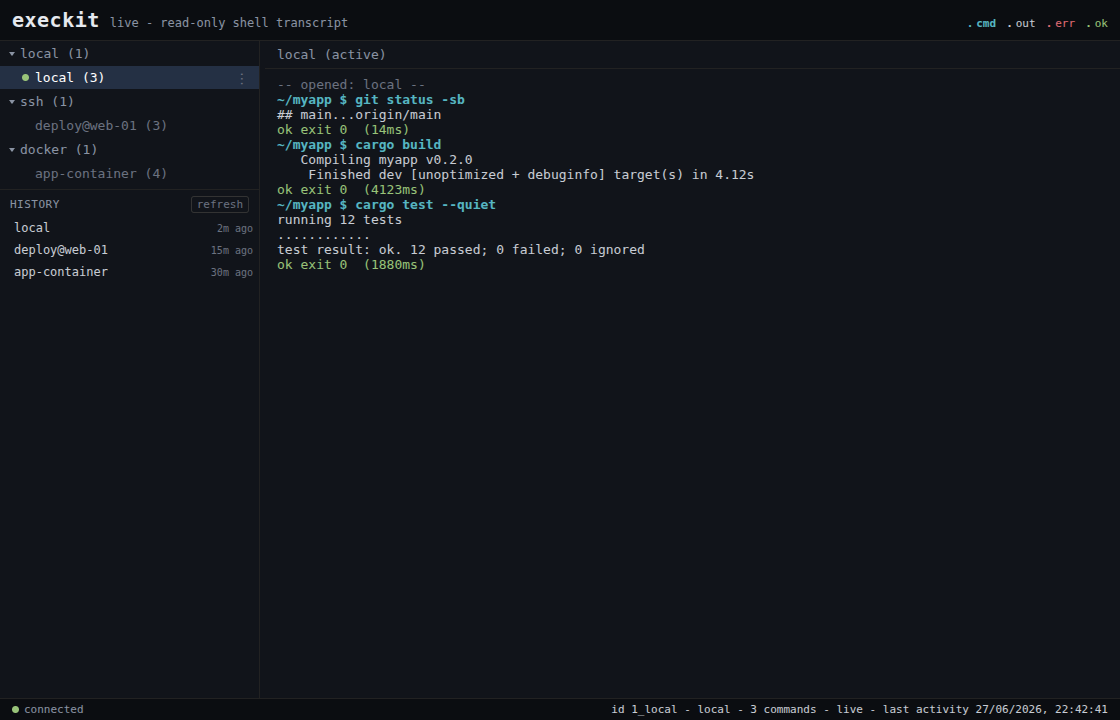
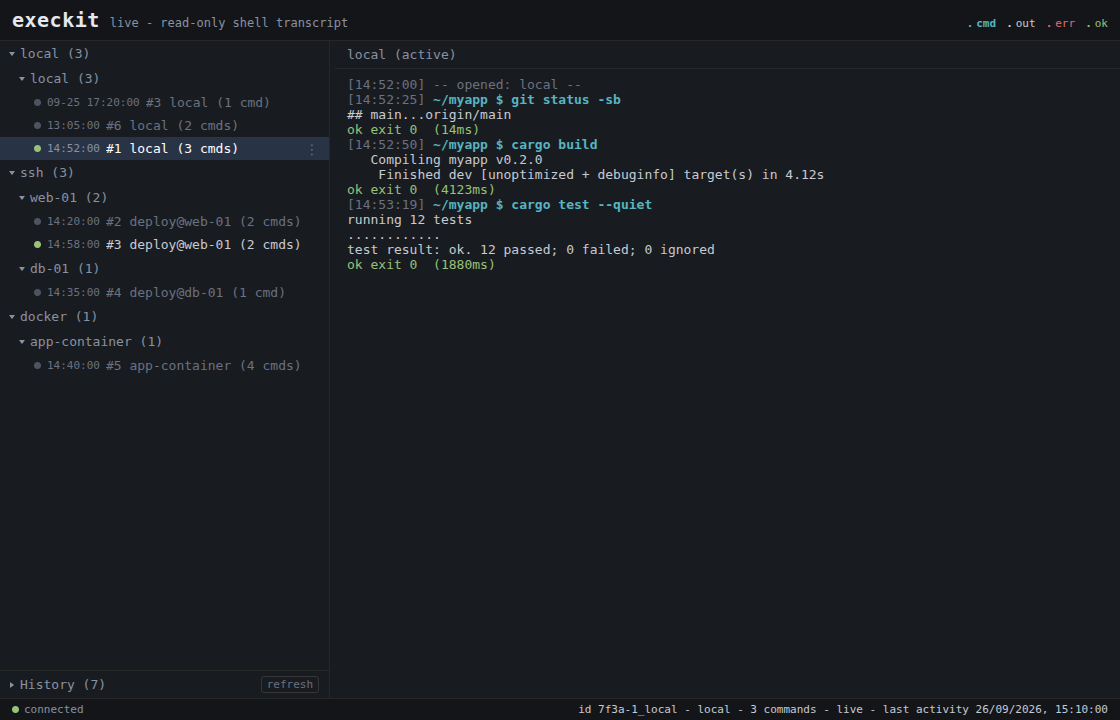
docs: refresh viewer screenshots for host groups, timestamps and collapsed History

diff --git a/README.md b/README.md
@@ -10,7 +10,7 @@
 [![guide](https://img.shields.io/badge/guide-online-blue.svg)](https://blinkingbit-oss.github.io/execkit/)
 [![license](https://img.shields.io/badge/license-Apache--2.0-blue.svg)](LICENSE)
 
-![The execkit live viewer: sessions grouped by transport on the left, the selected session's shell transcript with exit codes and timings on the right](docs/assets/demo-1-main.png)
+![The execkit live viewer: sessions grouped by transport and host on the left, the selected session's timestamped shell transcript with exit codes and timings on the right](docs/assets/demo-1-main.png)
 
 </div>
 
